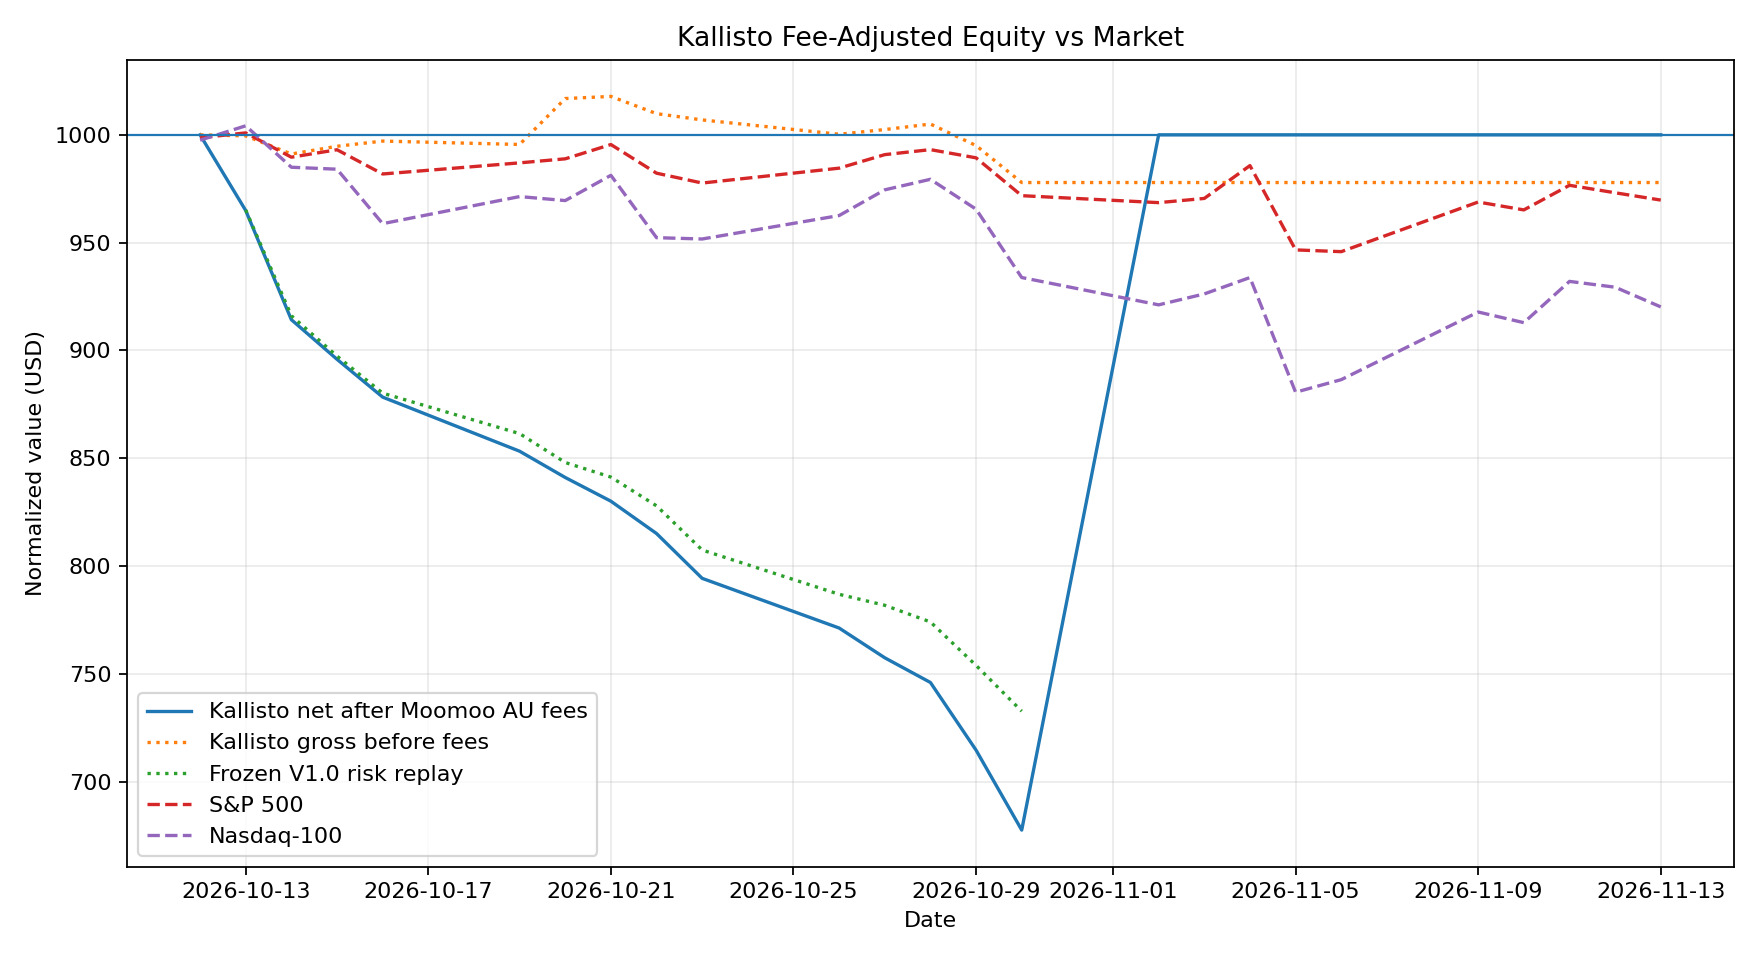
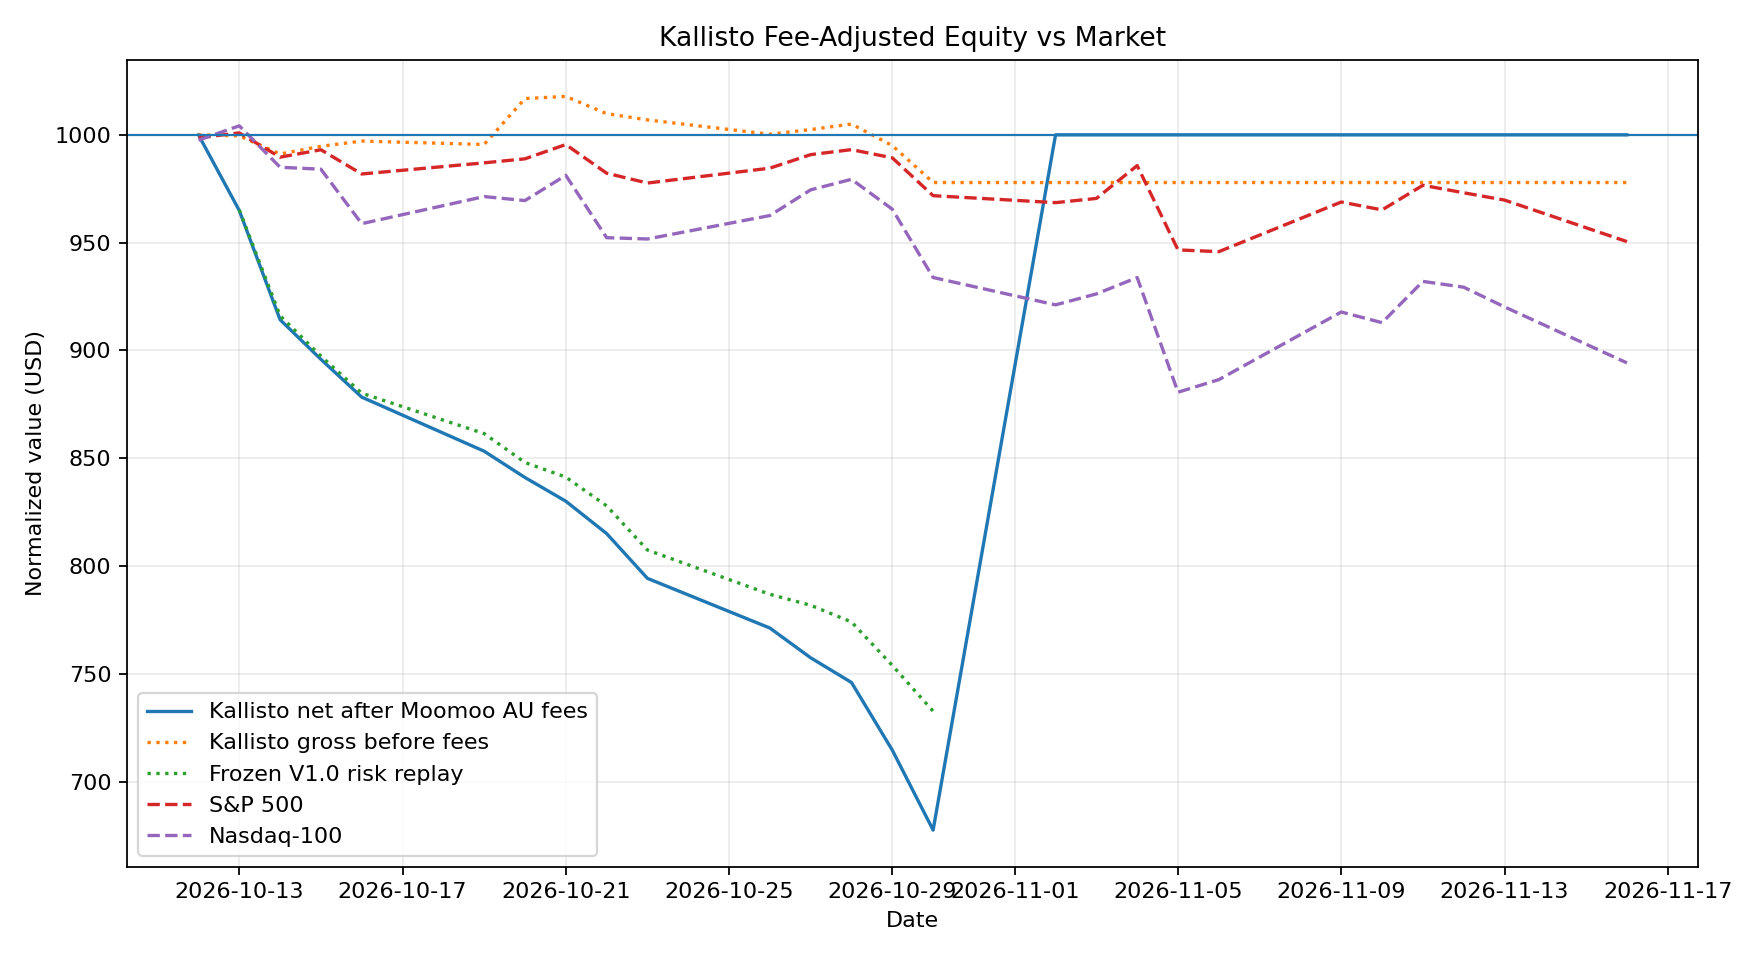
docs: refresh adaptive experiment dashboard

diff --git a/README.md b/README.md
@@ -127,7 +127,7 @@ The frozen `V1.0` risk replay provides a low-cost counterfactual control using t
 | Metric | Current value |
 |---|---:|
 | Strategy version | **V1.2** |
-| Completed sessions | 24 |
+| Completed sessions | 25 |
 | Completed trades | 104 |
 | **Kallisto net equity after modeled Moomoo AU fees** | **$677.53** |
 | **Kallisto net cumulative return** | **-32.25%** |
@@ -138,8 +138,8 @@ The frozen `V1.0` risk replay provides a low-cost counterfactual control using t
 | Frozen V1.0 risk-replay equity | $732.68 |
 | Frozen V1.0 risk-replay return | -26.73% |
 | Gross simulator vs frozen V1.0 risk replay | 33.47% |
-| S&P 500 return from experiment base | -3.03% |
-| Nasdaq-100 return from experiment base | -7.98% |
+| S&P 500 return from experiment base | -4.95% |
+| Nasdaq-100 return from experiment base | -10.58% |
 
 ### Fee treatment
 
@@ -252,10 +252,10 @@ Every paid trading-decision call and weekly evaluator call records token usage a
 <!-- API_COST_SUMMARY_START -->
 | Cost period | API cost (USD) | API calls | Input tokens | Output tokens |
 |---|---:|---:|---:|---:|
-| Average daily | $0.0319 | 21.7 | 133,978 | 4,291 |
-| Average weekly | $0.1531 | 104.2 | 643,097 | 20,597 |
-| Average monthly | $0.3827 | 260.5 | 1,607,742 | 51,492 |
-| **Total actual** | **$0.7655** | **521** | **3,215,483** | **102,983** |
+| Average daily | $0.0318 | 21.9 | 133,808 | 4,240 |
+| Average weekly | $0.1325 | 91.2 | 557,535 | 17,668 |
+| Average monthly | $0.3975 | 273.5 | 1,672,604 | 53,005 |
+| **Total actual** | **$0.7950** | **547** | **3,345,209** | **106,010** |
 <!-- API_COST_SUMMARY_END -->
 
 OpenAI billing remains the source of truth for actual API charges.
